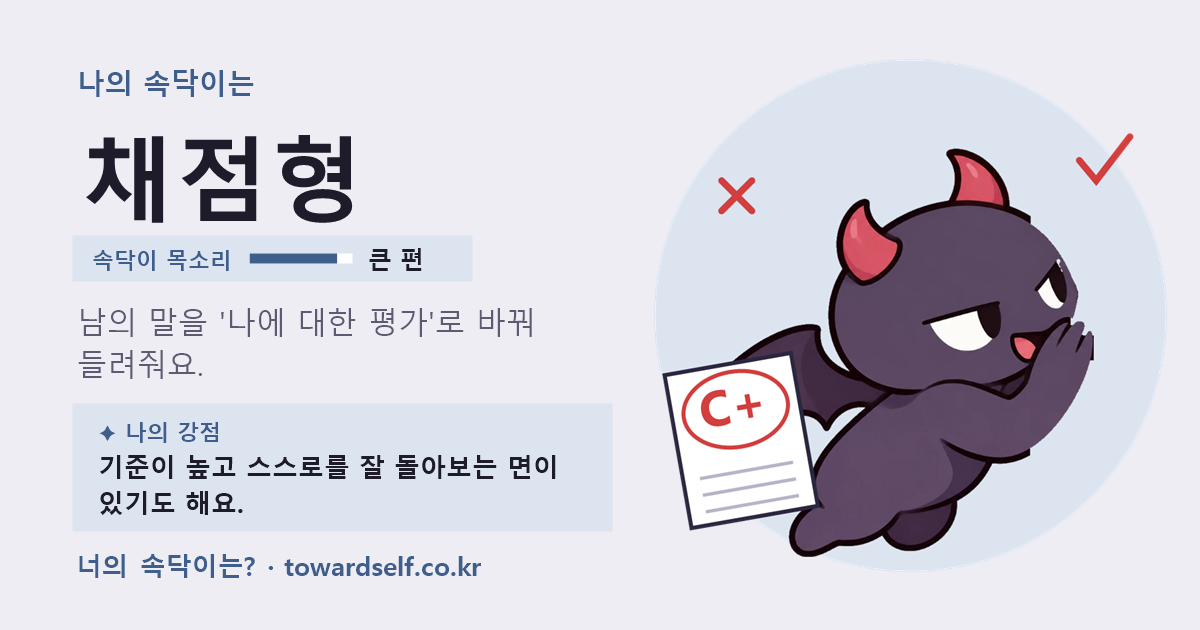
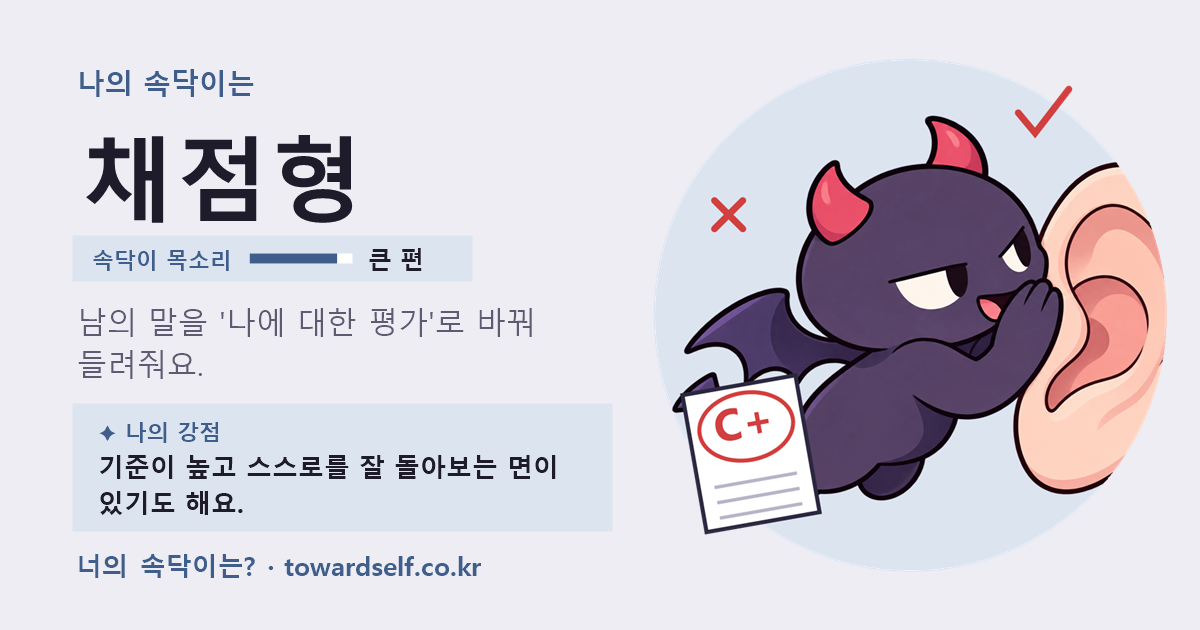
Redraw type images and share cards from the new illustration

Changed region(s): [[0.555, 0.181, 0.9867, 0.9048], [0.8325, 0.1206, 0.8942, 0.2111]]

diff --git a/s/q2.html b/s/q2.html
@@ -12,7 +12,7 @@
 <meta property="og:url" content="https://towardself.co.kr/s/q2">
 <meta property="og:title" content="나의 속닥이는 졸고 있는 속닥이 (목소리 작은 편)">
 <meta property="og:description" content="이번엔 남의 말을 거의 바꾸지 않았어요. 너의 속닥이는? 5분 테스트로 알아보세요.">
-<meta property="og:image" content="https://towardself.co.kr/share/card-q2.png">
+<meta property="og:image" content="https://towardself.co.kr/share/card-q2.png?v=2">
 <meta property="og:image:width" content="1200">
 <meta property="og:image:height" content="630">
 <meta name="twitter:card" content="summary_large_image">

diff --git a/s/q0.html b/s/q0.html
@@ -12,7 +12,7 @@
 <meta property="og:url" content="https://towardself.co.kr/s/q0">
 <meta property="og:title" content="나의 속닥이는 졸고 있는 속닥이 (목소리 큰 편)">
 <meta property="og:description" content="이번엔 남의 말을 거의 바꾸지 않았어요. 너의 속닥이는? 5분 테스트로 알아보세요.">
-<meta property="og:image" content="https://towardself.co.kr/share/card-q0.png">
+<meta property="og:image" content="https://towardself.co.kr/share/card-q0.png?v=2">
 <meta property="og:image:width" content="1200">
 <meta property="og:image:height" content="630">
 <meta name="twitter:card" content="summary_large_image">

diff --git a/s/q1.html b/s/q1.html
@@ -12,7 +12,7 @@
 <meta property="og:url" content="https://towardself.co.kr/s/q1">
 <meta property="og:title" content="나의 속닥이는 졸고 있는 속닥이 (목소리 보통)">
 <meta property="og:description" content="이번엔 남의 말을 거의 바꾸지 않았어요. 너의 속닥이는? 5분 테스트로 알아보세요.">
-<meta property="og:image" content="https://towardself.co.kr/share/card-q1.png">
+<meta property="og:image" content="https://towardself.co.kr/share/card-q1.png?v=2">
 <meta property="og:image:width" content="1200">
 <meta property="og:image:height" content="630">
 <meta name="twitter:card" content="summary_large_image">

diff --git a/s/h2.html b/s/h2.html
@@ -12,7 +12,7 @@
 <meta property="og:url" content="https://towardself.co.kr/s/h2">
 <meta property="og:title" content="나의 속닥이는 가시형 (목소리 작은 편)">
 <meta property="og:description" content="남의 말을 '나를 공격하는 말'로 바꿔 들려줘요. 너의 속닥이는? 5분 테스트로 알아보세요.">
-<meta property="og:image" content="https://towardself.co.kr/share/card-h2.png">
+<meta property="og:image" content="https://towardself.co.kr/share/card-h2.png?v=2">
 <meta property="og:image:width" content="1200">
 <meta property="og:image:height" content="630">
 <meta name="twitter:card" content="summary_large_image">

diff --git a/s/h0.html b/s/h0.html
@@ -12,7 +12,7 @@
 <meta property="og:url" content="https://towardself.co.kr/s/h0">
 <meta property="og:title" content="나의 속닥이는 가시형 (목소리 큰 편)">
 <meta property="og:description" content="남의 말을 '나를 공격하는 말'로 바꿔 들려줘요. 너의 속닥이는? 5분 테스트로 알아보세요.">
-<meta property="og:image" content="https://towardself.co.kr/share/card-h0.png">
+<meta property="og:image" content="https://towardself.co.kr/share/card-h0.png?v=2">
 <meta property="og:image:width" content="1200">
 <meta property="og:image:height" content="630">
 <meta name="twitter:card" content="summary_large_image">

diff --git a/s/s2.html b/s/s2.html
@@ -12,7 +12,7 @@
 <meta property="og:url" content="https://towardself.co.kr/s/s2">
 <meta property="og:title" content="나의 속닥이는 채점형 (목소리 작은 편)">
 <meta property="og:description" content="남의 말을 '나에 대한 평가'로 바꿔 들려줘요. 너의 속닥이는? 5분 테스트로 알아보세요.">
-<meta property="og:image" content="https://towardself.co.kr/share/card-s2.png">
+<meta property="og:image" content="https://towardself.co.kr/share/card-s2.png?v=2">
 <meta property="og:image:width" content="1200">
 <meta property="og:image:height" content="630">
 <meta name="twitter:card" content="summary_large_image">

diff --git a/s/h1.html b/s/h1.html
@@ -12,7 +12,7 @@
 <meta property="og:url" content="https://towardself.co.kr/s/h1">
 <meta property="og:title" content="나의 속닥이는 가시형 (목소리 보통)">
 <meta property="og:description" content="남의 말을 '나를 공격하는 말'로 바꿔 들려줘요. 너의 속닥이는? 5분 테스트로 알아보세요.">
-<meta property="og:image" content="https://towardself.co.kr/share/card-h1.png">
+<meta property="og:image" content="https://towardself.co.kr/share/card-h1.png?v=2">
 <meta property="og:image:width" content="1200">
 <meta property="og:image:height" content="630">
 <meta name="twitter:card" content="summary_large_image">

diff --git a/s/i2.html b/s/i2.html
@@ -12,7 +12,7 @@
 <meta property="og:url" content="https://towardself.co.kr/s/i2">
 <meta property="og:title" content="나의 속닥이는 후광형 (목소리 작은 편)">
 <meta property="og:description" content="남의 말에 '특별한 의미'를 덧붙여 들려줘요. 너의 속닥이는? 5분 테스트로 알아보세요.">
-<meta property="og:image" content="https://towardself.co.kr/share/card-i2.png">
+<meta property="og:image" content="https://towardself.co.kr/share/card-i2.png?v=2">
 <meta property="og:image:width" content="1200">
 <meta property="og:image:height" content="630">
 <meta name="twitter:card" content="summary_large_image">

diff --git a/s/s0.html b/s/s0.html
@@ -12,7 +12,7 @@
 <meta property="og:url" content="https://towardself.co.kr/s/s0">
 <meta property="og:title" content="나의 속닥이는 채점형 (목소리 큰 편)">
 <meta property="og:description" content="남의 말을 '나에 대한 평가'로 바꿔 들려줘요. 너의 속닥이는? 5분 테스트로 알아보세요.">
-<meta property="og:image" content="https://towardself.co.kr/share/card-s0.png">
+<meta property="og:image" content="https://towardself.co.kr/share/card-s0.png?v=2">
 <meta property="og:image:width" content="1200">
 <meta property="og:image:height" content="630">
 <meta name="twitter:card" content="summary_large_image">

diff --git a/s/i0.html b/s/i0.html
@@ -12,7 +12,7 @@
 <meta property="og:url" content="https://towardself.co.kr/s/i0">
 <meta property="og:title" content="나의 속닥이는 후광형 (목소리 큰 편)">
 <meta property="og:description" content="남의 말에 '특별한 의미'를 덧붙여 들려줘요. 너의 속닥이는? 5분 테스트로 알아보세요.">
-<meta property="og:image" content="https://towardself.co.kr/share/card-i0.png">
+<meta property="og:image" content="https://towardself.co.kr/share/card-i0.png?v=2">
 <meta property="og:image:width" content="1200">
 <meta property="og:image:height" content="630">
 <meta name="twitter:card" content="summary_large_image">

diff --git a/s/s1.html b/s/s1.html
@@ -12,7 +12,7 @@
 <meta property="og:url" content="https://towardself.co.kr/s/s1">
 <meta property="og:title" content="나의 속닥이는 채점형 (목소리 보통)">
 <meta property="og:description" content="남의 말을 '나에 대한 평가'로 바꿔 들려줘요. 너의 속닥이는? 5분 테스트로 알아보세요.">
-<meta property="og:image" content="https://towardself.co.kr/share/card-s1.png">
+<meta property="og:image" content="https://towardself.co.kr/share/card-s1.png?v=2">
 <meta property="og:image:width" content="1200">
 <meta property="og:image:height" content="630">
 <meta name="twitter:card" content="summary_large_image">

diff --git a/s/i1.html b/s/i1.html
@@ -12,7 +12,7 @@
 <meta property="og:url" content="https://towardself.co.kr/s/i1">
 <meta property="og:title" content="나의 속닥이는 후광형 (목소리 보통)">
 <meta property="og:description" content="남의 말에 '특별한 의미'를 덧붙여 들려줘요. 너의 속닥이는? 5분 테스트로 알아보세요.">
-<meta property="og:image" content="https://towardself.co.kr/share/card-i1.png">
+<meta property="og:image" content="https://towardself.co.kr/share/card-i1.png?v=2">
 <meta property="og:image:width" content="1200">
 <meta property="og:image:height" content="630">
 <meta name="twitter:card" content="summary_large_image">
